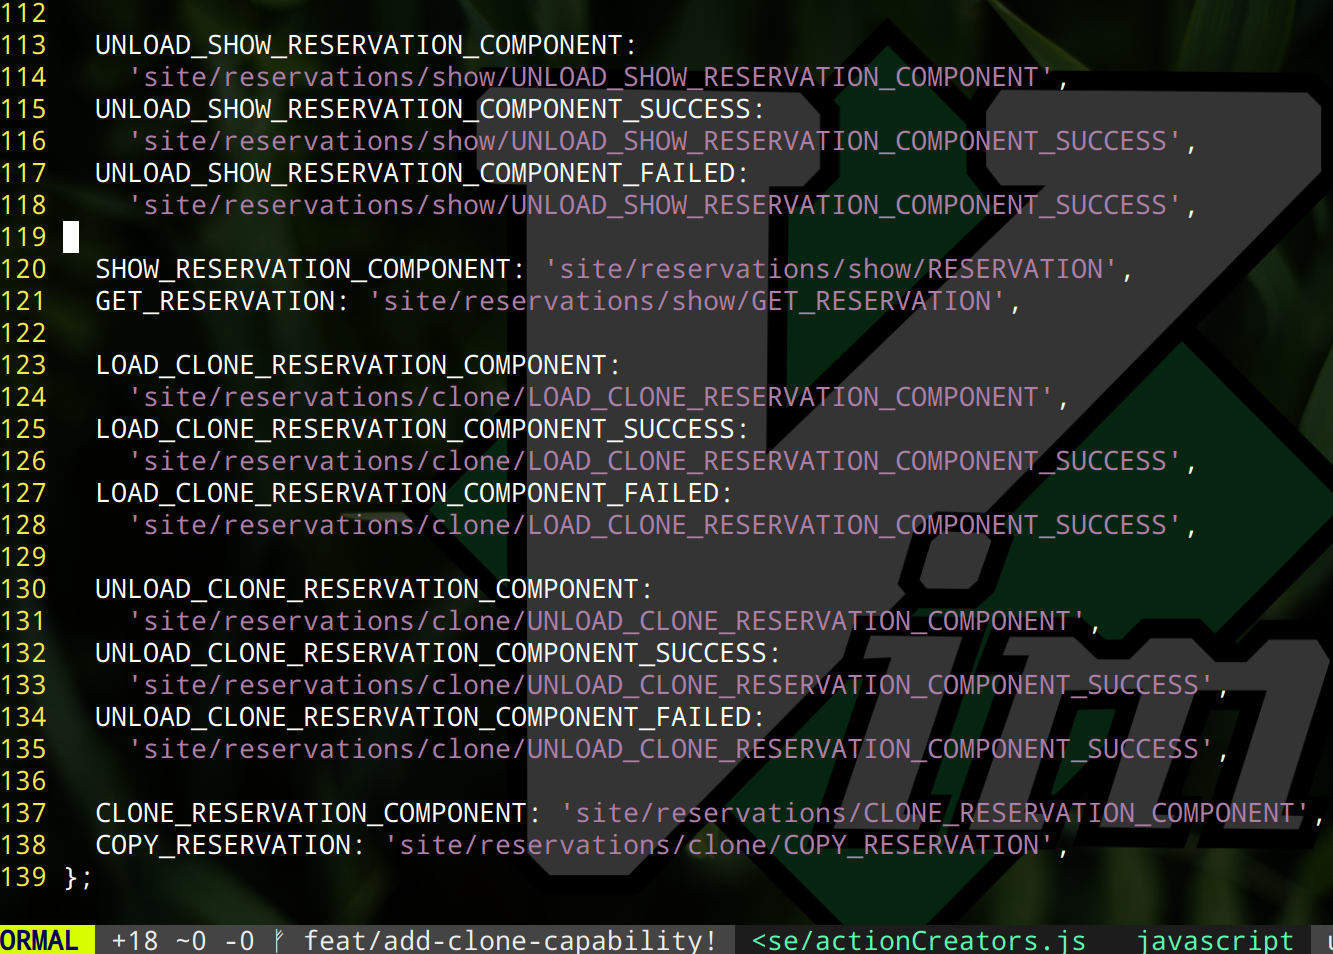
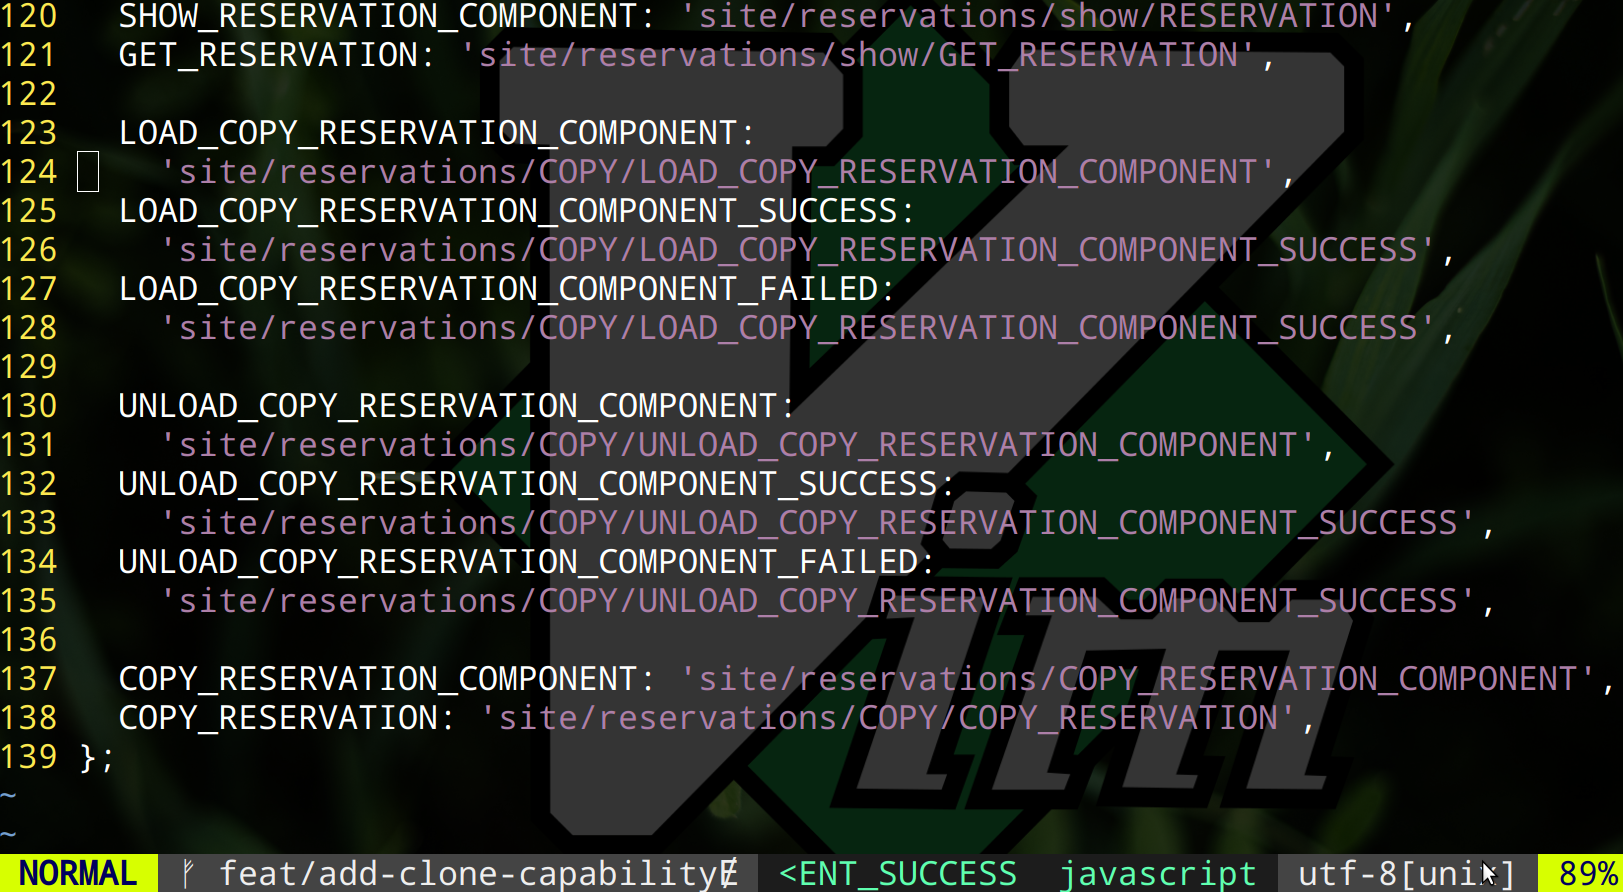
Use action creators term correctly

diff --git a/web/docs/using-storybook-to-drive-development.md b/web/docs/using-storybook-to-drive-development.md
@@ -396,28 +396,28 @@ git commit -m "Add loading indicator to clone component for async actions"
 
 ## 3b - Connect the Screen Component to the Global State
 
-Great!  Now let's use [Redux-Saga](https://redux-saga.js.org/) to load the reservation data.  Why do I use Redux+Sagas?  It's a good way to handle side effects in Redux. Instead of using Redux, I find using [Jotai](https://jotai.org/) or [Recoil](https://recoiljs.org/) to be a bit more straightforward.  However, the conventions (i.e., the `connectComponent` and `createComponentReducer` behaviors, plus the `actionCreators` object) used in this codebase is a great way to avoid *some* of the complexity of Redux.  This is how I originally learned to do global state management in React, and it still resonates with me.
+Great!  Now let's use [Redux-Saga](https://redux-saga.js.org/) to load the reservation data.  Why do I use Redux+Sagas?  It's a good way to handle side effects in Redux. Instead of using Redux, I find using [Jotai](https://jotai.org/) or [Recoil](https://recoiljs.org/) to be a bit more straightforward.  However, the conventions (i.e., the `connectComponent` and `createComponentReducer` behaviors, plus the `actionTypes` object + `actionCreators` configuration) used in this codebase is a great way to avoid *some* of the complexity of Redux.  This is how I originally learned to do global state management in React, and it still resonates with me.
   
 ```bash
 sed -e "/GET_RESERVATION: 'site\/reservations\/show\/GET_RESERVATION',/r"<(
 echo '
-LOAD_CLONE_RESERVATION_COMPONENT:
-"site/reservations/clone/LOAD_CLONE_RESERVATION_COMPONENT",
-  LOAD_CLONE_RESERVATION_COMPONENT_SUCCESS:
-    "site/reservations/clone/LOAD_CLONE_RESERVATION_COMPONENT_SUCCESS",
-  LOAD_CLONE_RESERVATION_COMPONENT_FAILED:
-    "site/reservations/clone/LOAD_CLONE_RESERVATION_COMPONENT_SUCCESS",
+LOAD_COPY_RESERVATION_COMPONENT:
+"site/reservations/clone/LOAD_COPY_RESERVATION_COMPONENT",
+  LOAD_COPY_RESERVATION_COMPONENT_SUCCESS:
+    "site/reservations/clone/LOAD_COPY_RESERVATION_COMPONENT_SUCCESS",
+  LOAD_COPY_RESERVATION_COMPONENT_FAILED:
+    "site/reservations/clone/LOAD_COPY_RESERVATION_COMPONENT_SUCCESS",
 
-  UNLOAD_CLONE_RESERVATION_COMPONENT:
-    "site/reservations/clone/UNLOAD_CLONE_RESERVATION_COMPONENT",
-  UNLOAD_CLONE_RESERVATION_COMPONENT_SUCCESS:
-    "site/reservations/clone/UNLOAD_CLONE_RESERVATION_COMPONENT_SUCCESS",
-  UNLOAD_CLONE_RESERVATION_COMPONENT_FAILED:
-    "site/reservations/clone/UNLOAD_CLONE_RESERVATION_COMPONENT_SUCCESS",
+  UNLOAD_COPY_RESERVATION_COMPONENT:
+    "site/reservations/clone/UNLOAD_COPY_RESERVATION_COMPONENT",
+  UNLOAD_COPY_RESERVATION_COMPONENT_SUCCESS:
+    "site/reservations/clone/UNLOAD_COPY_RESERVATION_COMPONENT_SUCCESS",
+  UNLOAD_COPY_RESERVATION_COMPONENT_FAILED:
+    "site/reservations/clone/UNLOAD_COPY_RESERVATION_COMPONENT_SUCCESS",
 
-  CLONE_RESERVATION_COMPONENT: "site/reservations/CLONE_RESERVATION_COMPONENT",
+  COPY_RESERVATION_COMPONENT: "site/reservations/COPY_RESERVATION_COMPONENT",
   COPY_RESERVATION: "site/reservations/clone/COPY_RESERVATION",'
-  ) -i -- src/shared/base/actionCreators.js
+  ) -i -- src/shared/base/actionTypes.js
 ```
 
 ![21](assets/images/storybook/21.png)
@@ -425,7 +425,7 @@ LOAD_CLONE_RESERVATION_COMPONENT:
 Next, the reducer.  We'll create a new file for it and add it to the **reservations screen reducer** file and the main **screens reducer** file:
   
 ```bash
-echo "import { actionCreators, createComponentReducer } from '@/shared/base';
+echo "import { actionTypes, createComponentReducer } from '@/shared/base';
 
 const initialState = {
   loading: true,
@@ -433,7 +433,7 @@ const initialState = {
 
 const actionHandlers = {};
 const reducer = createComponentReducer(
-  actionCreators.CLONE_RESERVATION_COMPONENT,
+  actionTypes.COPY_RESERVATION_COMPONENT,
   initialState,
   actionHandlers,
 );
@@ -485,7 +485,7 @@ export default {
 echo 'import React from "react";
 
 import { useSelector } from "react-redux";
-import { actionCreators, connectComponent } from "@/shared/base";
+import { actionTypes, connectComponent } from "@/shared/base";
 import { Loading } from "@/shared/components";
 
 const CloneReservationComponent = () => {
@@ -499,14 +499,14 @@ const CloneReservationComponent = () => {
 };
 
 const screen = connectComponent(CloneReservationComponent, {
-  componentName: actionCreators.CLONE_RESERVATION_COMPONENT,
+  componentName: actionTypes.COPY_RESERVATION_COMPONENT,
   state: (state) => state?.site?.newReservations?.reservation,
   load: {
-    reservation: () => ({ type: actionCreators.GET_RESERVATION }),
+    reservation: () => ({ type: actionTypes.GET_RESERVATION }),
   },
-  dispatch: (dispatch) => ({
-    createReservation: (reservationId) =>
-      dispatch({ type: actionCreators.CLONE_RESERVATION, reservationId }),
+  actionCreators: (dispatch) => ({
+    cloneReservation: (reservationId) =>
+      dispatch({ type: actionTypes.COPY_RESERVATION, reservationId }),
   }),
 });
 
